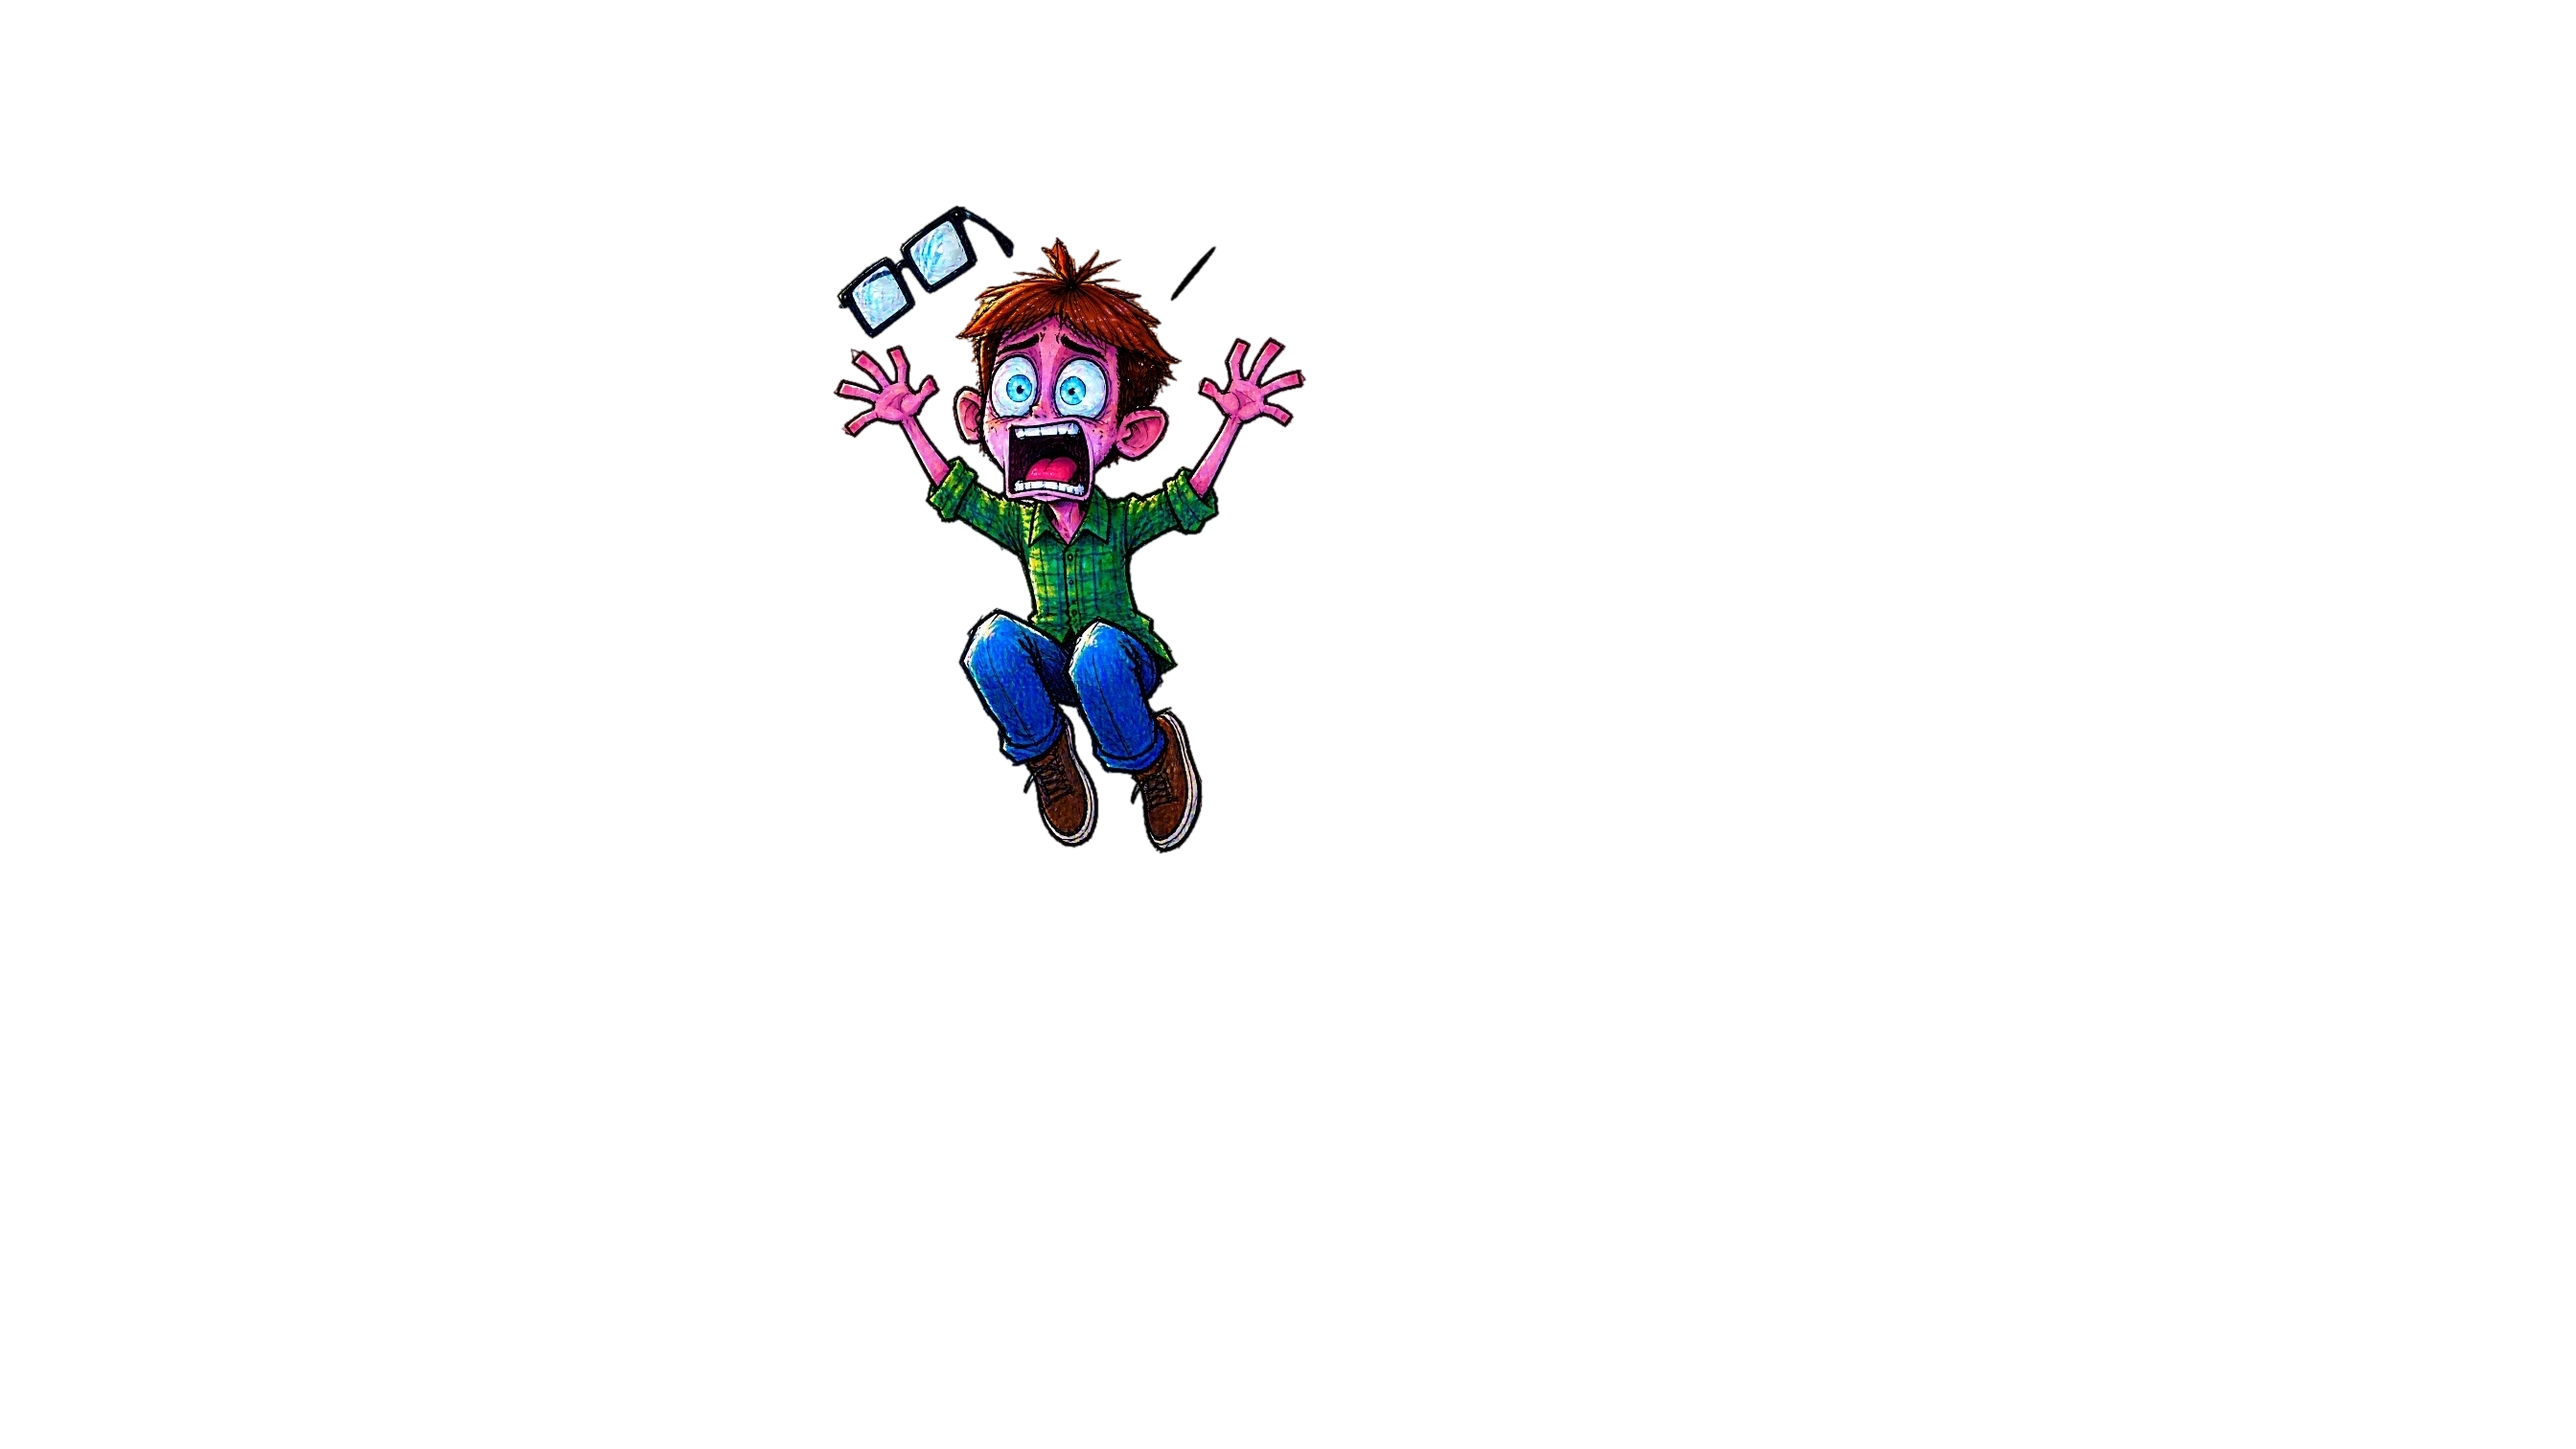
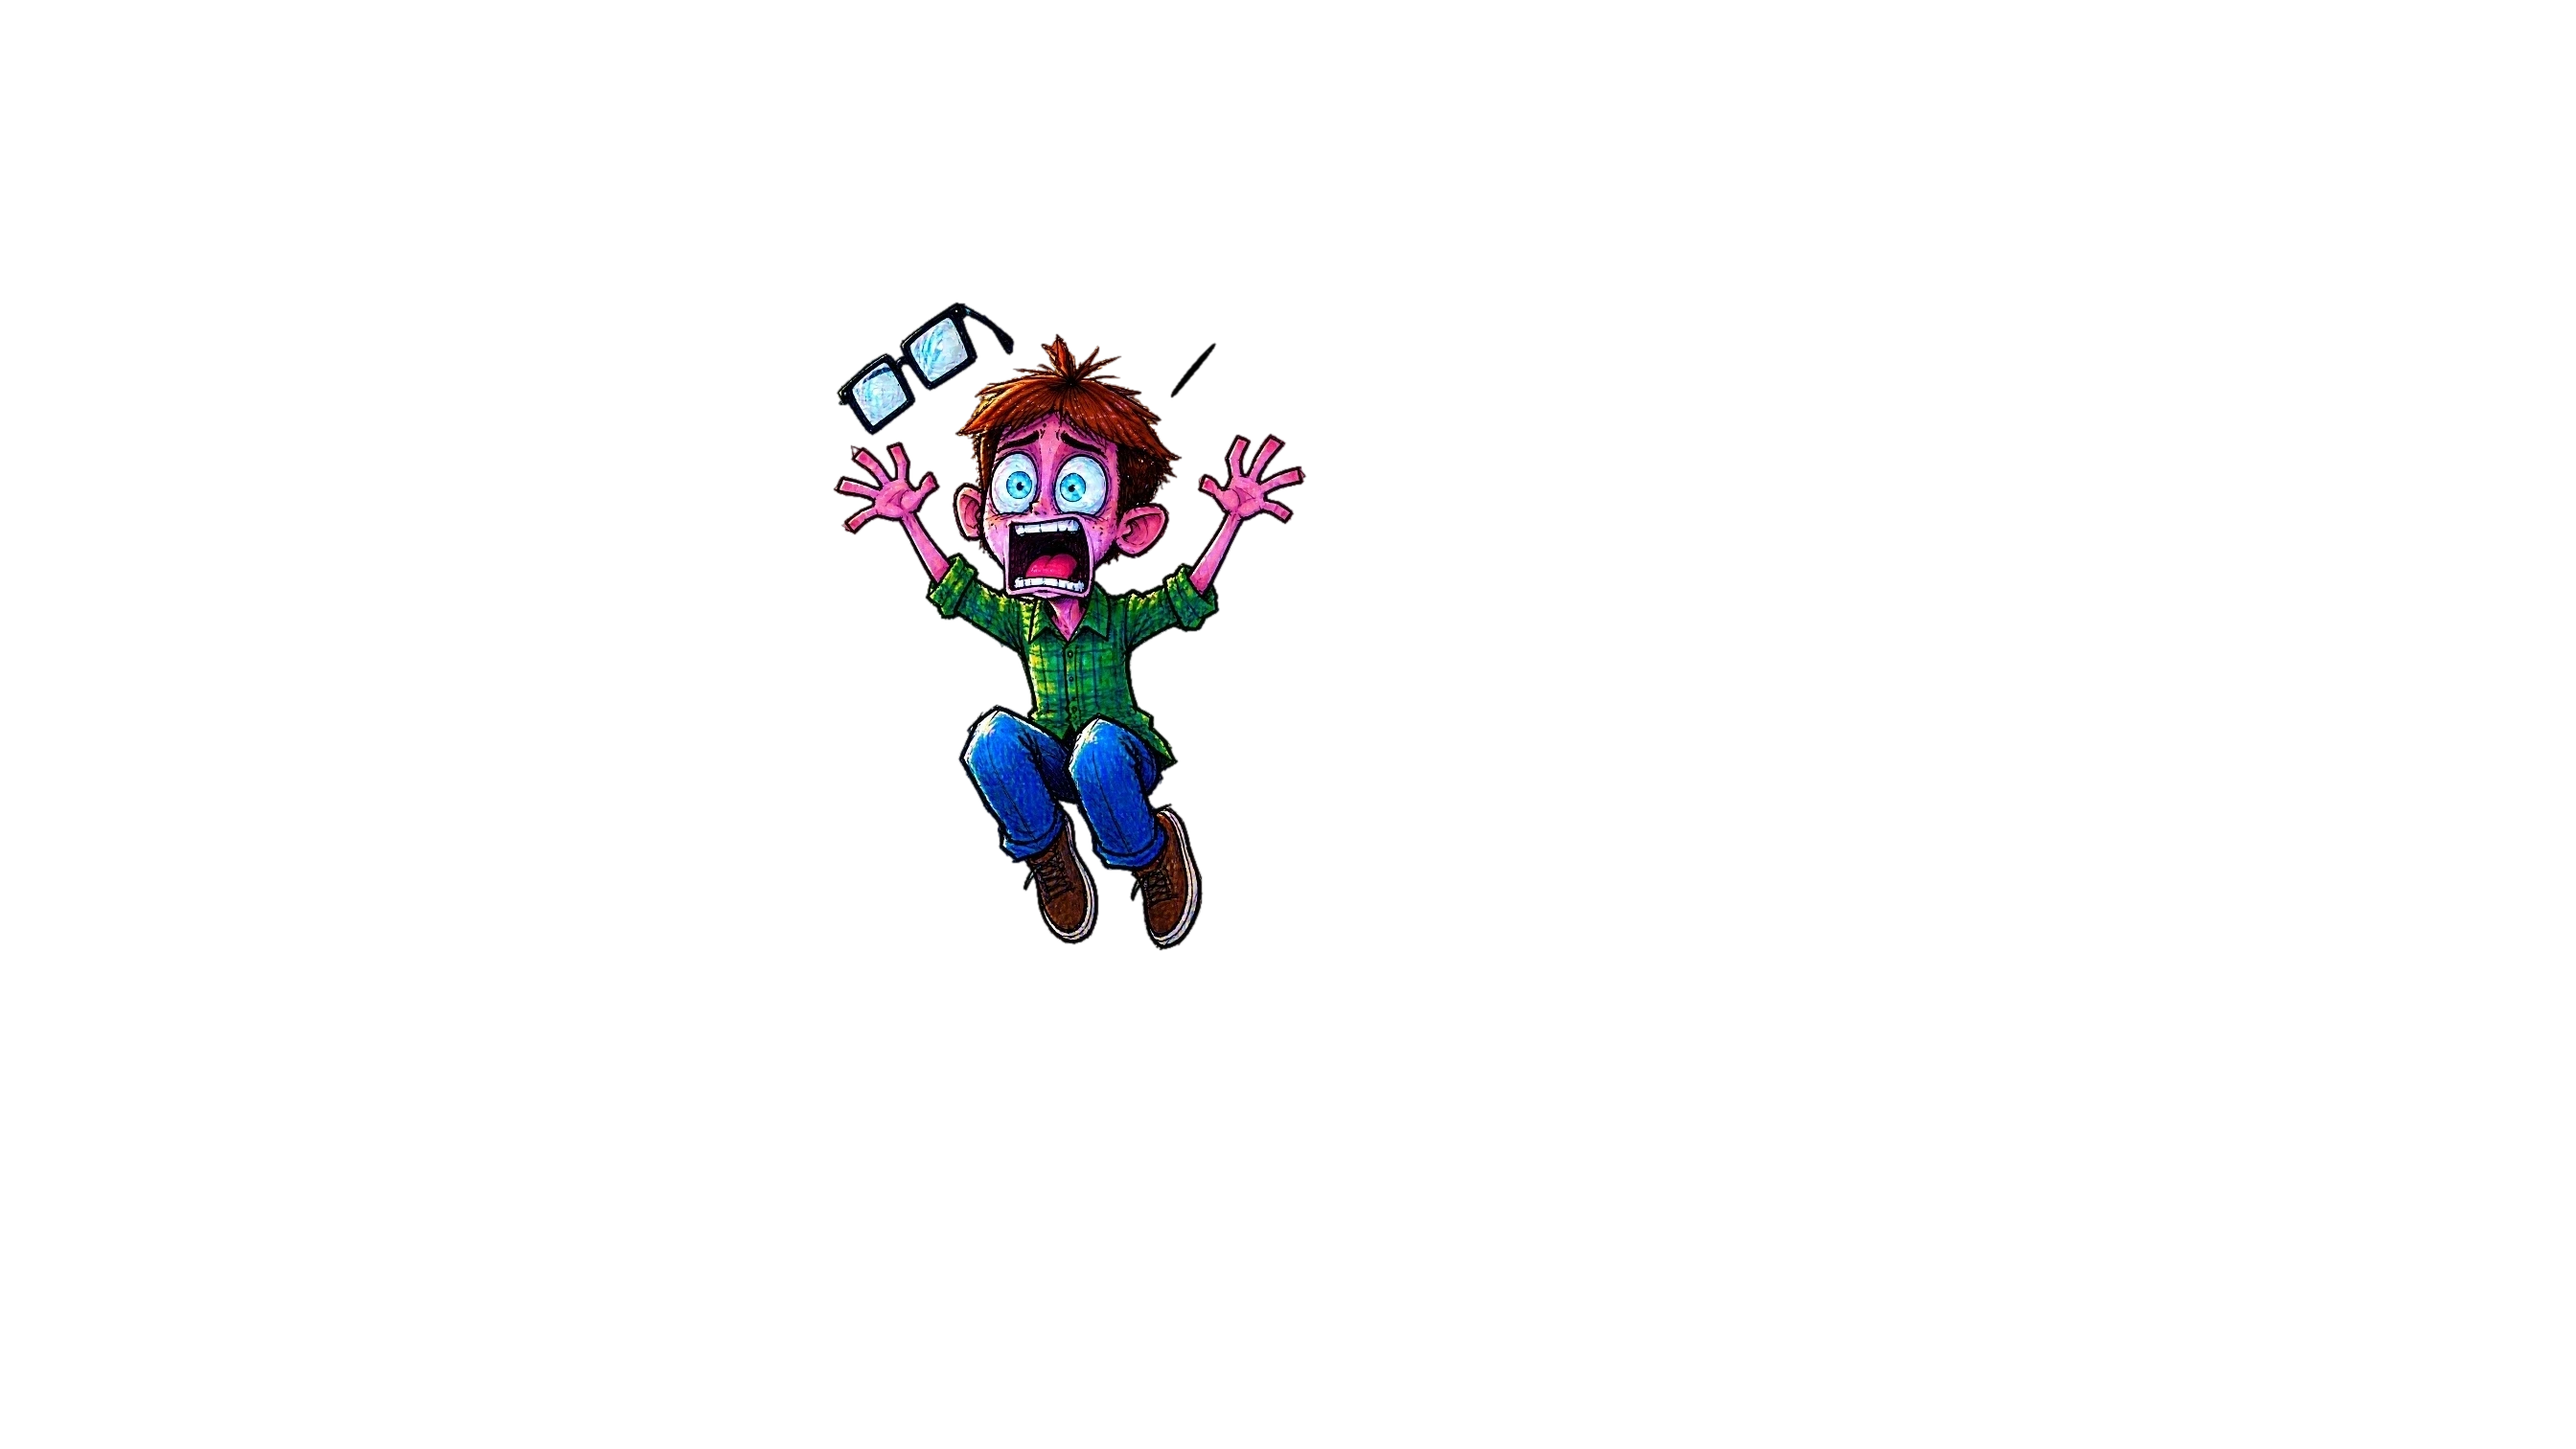
Cold opens: syllable-based lip sync, laptop leap pops up behind the MacBook
Claude-Session: https://claude.ai/code/session_017XP92PK8oxJikhNeAHPZBc

Changed region(s): [[0.3125, 0.1243, 0.5, 0.6523]]

diff --git a/news-reel/engine/coldopen.js b/news-reel/engine/coldopen.js
@@ -346,8 +346,12 @@ export function buildColdOpen(root, id, tim, ep, manifest) {
       // close-up: his face over the real room behind him (the 4K plate, lightly defocused); lips from the voice
       // lips follow the real voice: amplitude envelope of the line (24 values/s), held on twos
       const fi = Math.floor(Math.floor((t - T.vOff) * 12) * 2);
-      const e = fi >= 0 && fi < env.length ? Math.max(env[fi], env[fi + 1] ?? 0) : 0;
-      const m = e > 0.5 ? "open" : e > 0.16 ? "half" : "closed";
+      // syllables, not loudness: compare with the local peak (±0.2 s) so a shouted line still opens and closes
+      const ea = (i) => (i >= 0 && i < env.length ? env[i] : 0);
+      const e = (ea(fi) + ea(fi + 1)) / 2;
+      let lm = 0.05; for (let j = fi - 4; j <= fi + 5; j++) lm = Math.max(lm, ea(j));
+      const r = e / lm;
+      const m = e < 0.14 ? "closed" : r > 0.82 && e > 0.45 ? "open" : r > 0.45 ? "half" : "closed";
       setSheet(F, `${V}face/${m}`, 0.62, 0.98);
       const fp = shots.find((s) => s.kind === "room" && s.crash) ?? shots[0];
       const hp = focusOf("head", fp.poses[fp.poses.length - 1][1]);
